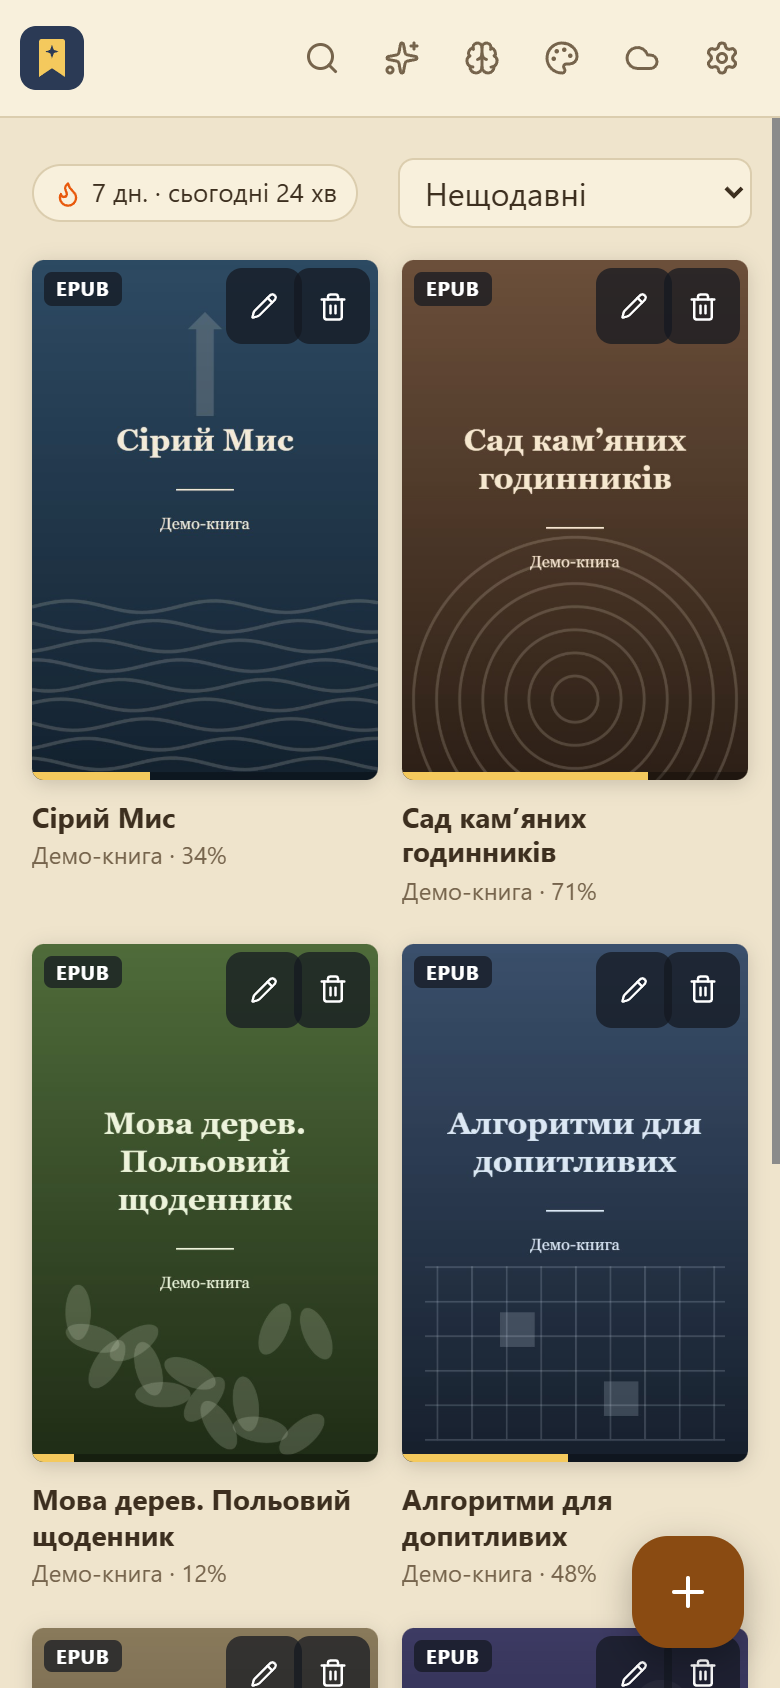
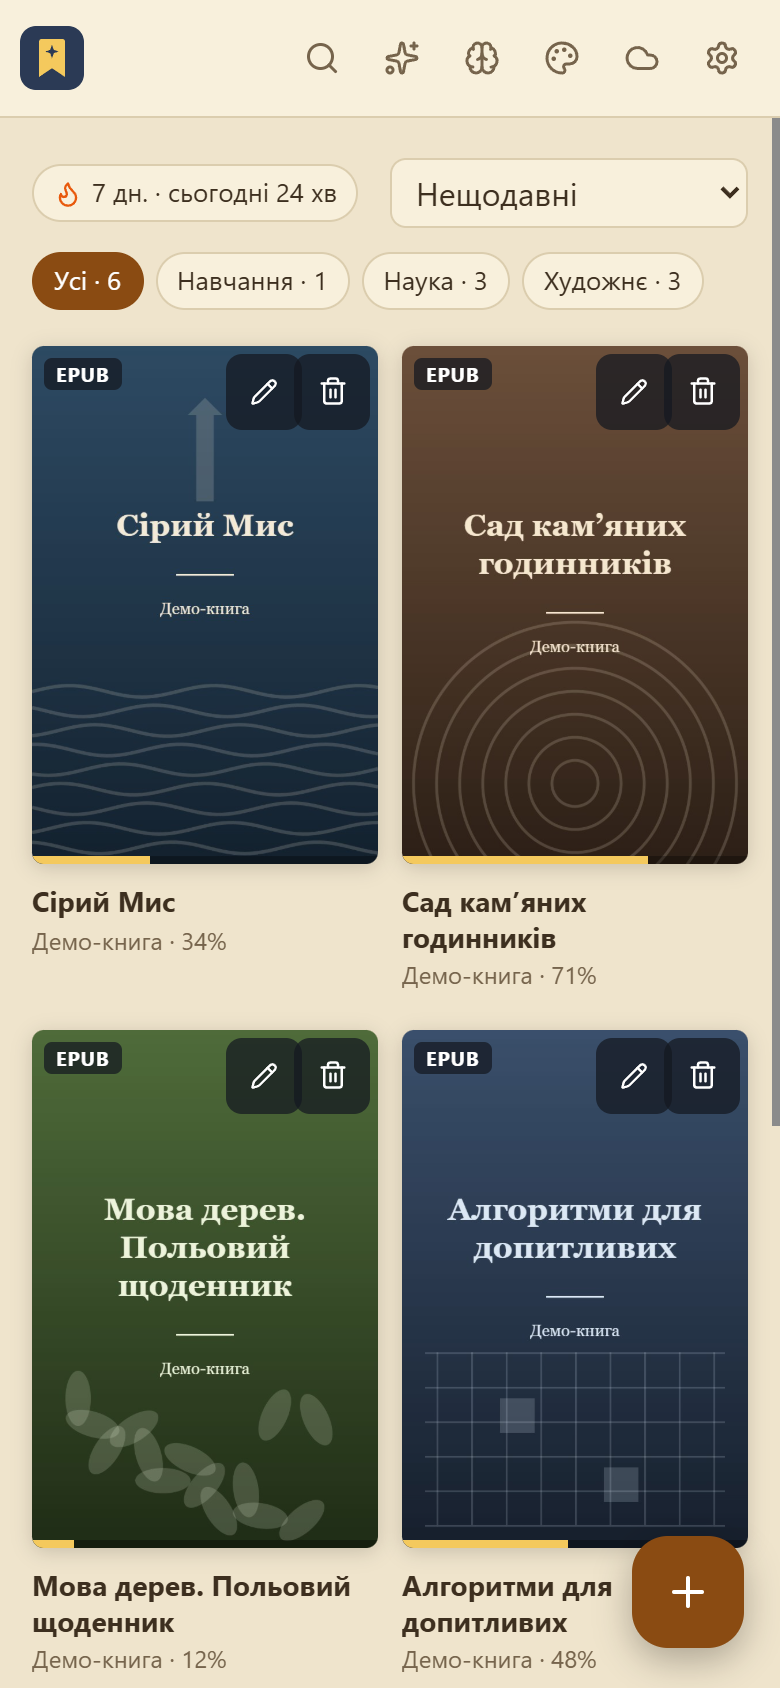
Give the library's shelves a row of their own on phones
Statistics, shelves and sorting no longer fit one row on a phone (the sorting list is in 16px type
there, and Safari makes it as wide as its longest choice), so the shelves were squeezed until
"Усі" was cut off or vanished. On narrow screens the shelves now get a full row under statistics
and sorting, the sorting list takes the rest of the first row, and without any shelves there is
no shelves row at all. The library screenshot on the project page shows the shelves again.

diff --git a/src/components/Library.tsx b/src/components/Library.tsx
@@ -289,21 +289,24 @@ export function Library({ onOpen, onInstall }: Props) {
                 <Flame size={14} />
                 {reading ? `${reading.streak} дн. · сьогодні ${reading.today ? durationLabel(reading.today) : '0 хв'}` : 'Статистика'}
               </button>
-              <div className="shelf-chips" role="tablist" aria-label="Полиці">
-                <button role="tab" aria-selected={onShelf === null} className={cx('chip', onShelf === null && 'active')} onClick={() => setShelf(null)}>
-                  Усі · {books?.length ?? 0}
-                </button>
-                {shelves.list.map(([name, count]) => (
-                  <button key={name} role="tab" aria-selected={onShelf === name} className={cx('chip', onShelf === name && 'active')} onClick={() => setShelf(name)}>
-                    {name} · {count}
+              {/* Without any shelves there is nothing to choose between ("Усі" alone would take a row on a phone). */}
+              {(shelves.list.length > 0 || onShelf !== null) && (
+                <div className="shelf-chips" role="tablist" aria-label="Полиці">
+                  <button role="tab" aria-selected={onShelf === null} className={cx('chip', onShelf === null && 'active')} onClick={() => setShelf(null)}>
+                    Усі · {books?.length ?? 0}
                   </button>
-                ))}
-                {shelves.list.length > 0 && shelves.loose > 0 && (
-                  <button role="tab" aria-selected={onShelf === NO_SHELF} className={cx('chip', onShelf === NO_SHELF && 'active')} onClick={() => setShelf(NO_SHELF)}>
-                    Без полиці · {shelves.loose}
-                  </button>
-                )}
-              </div>
+                  {shelves.list.map(([name, count]) => (
+                    <button key={name} role="tab" aria-selected={onShelf === name} className={cx('chip', onShelf === name && 'active')} onClick={() => setShelf(name)}>
+                      {name} · {count}
+                    </button>
+                  ))}
+                  {shelves.list.length > 0 && shelves.loose > 0 && (
+                    <button role="tab" aria-selected={onShelf === NO_SHELF} className={cx('chip', onShelf === NO_SHELF && 'active')} onClick={() => setShelf(NO_SHELF)}>
+                      Без полиці · {shelves.loose}
+                    </button>
+                  )}
+                </div>
+              )}
               <select className="library-sort" value={settings.librarySort} onChange={(e) => updateSettings({ librarySort: e.target.value as LibrarySort })} aria-label="Сортування" title="Сортування">
                 {SORTS.map(([value, name]) => (
                   <option key={value} value={value}>

diff --git a/src/styles.css b/src/styles.css
@@ -3734,14 +3734,37 @@ img {
 }
 
 .library-sort {
-  flex-shrink: 0;
+  flex: 0 1 auto;
+  min-width: 0;
   max-width: 46vw;
+  margin-left: auto;
   padding: 5px 8px;
   font-size: 13px;
   border-radius: 8px;
   border: 1px solid var(--border);
   background: var(--surface);
   color: inherit;
+}
+
+/* A phone has no room for statistics, shelves and sorting in one row (the sorting list there is in
+   16px type, and Safari makes it as wide as its longest choice): the shelves get a row of their own. */
+@media (max-width: 640px) {
+  .library-tools {
+    flex-wrap: wrap;
+    row-gap: 10px;
+  }
+
+  .shelf-chips {
+    order: 3;
+    flex: 1 1 100%;
+  }
+
+  /* Takes the rest of the first row (up to half of it) rather than a width of its own, so it never
+     drops to a row of its own next to a long statistics label. */
+  .library-sort {
+    flex: 1 1 0;
+    max-width: 50%;
+  }
 }
 
 .book-edit {
